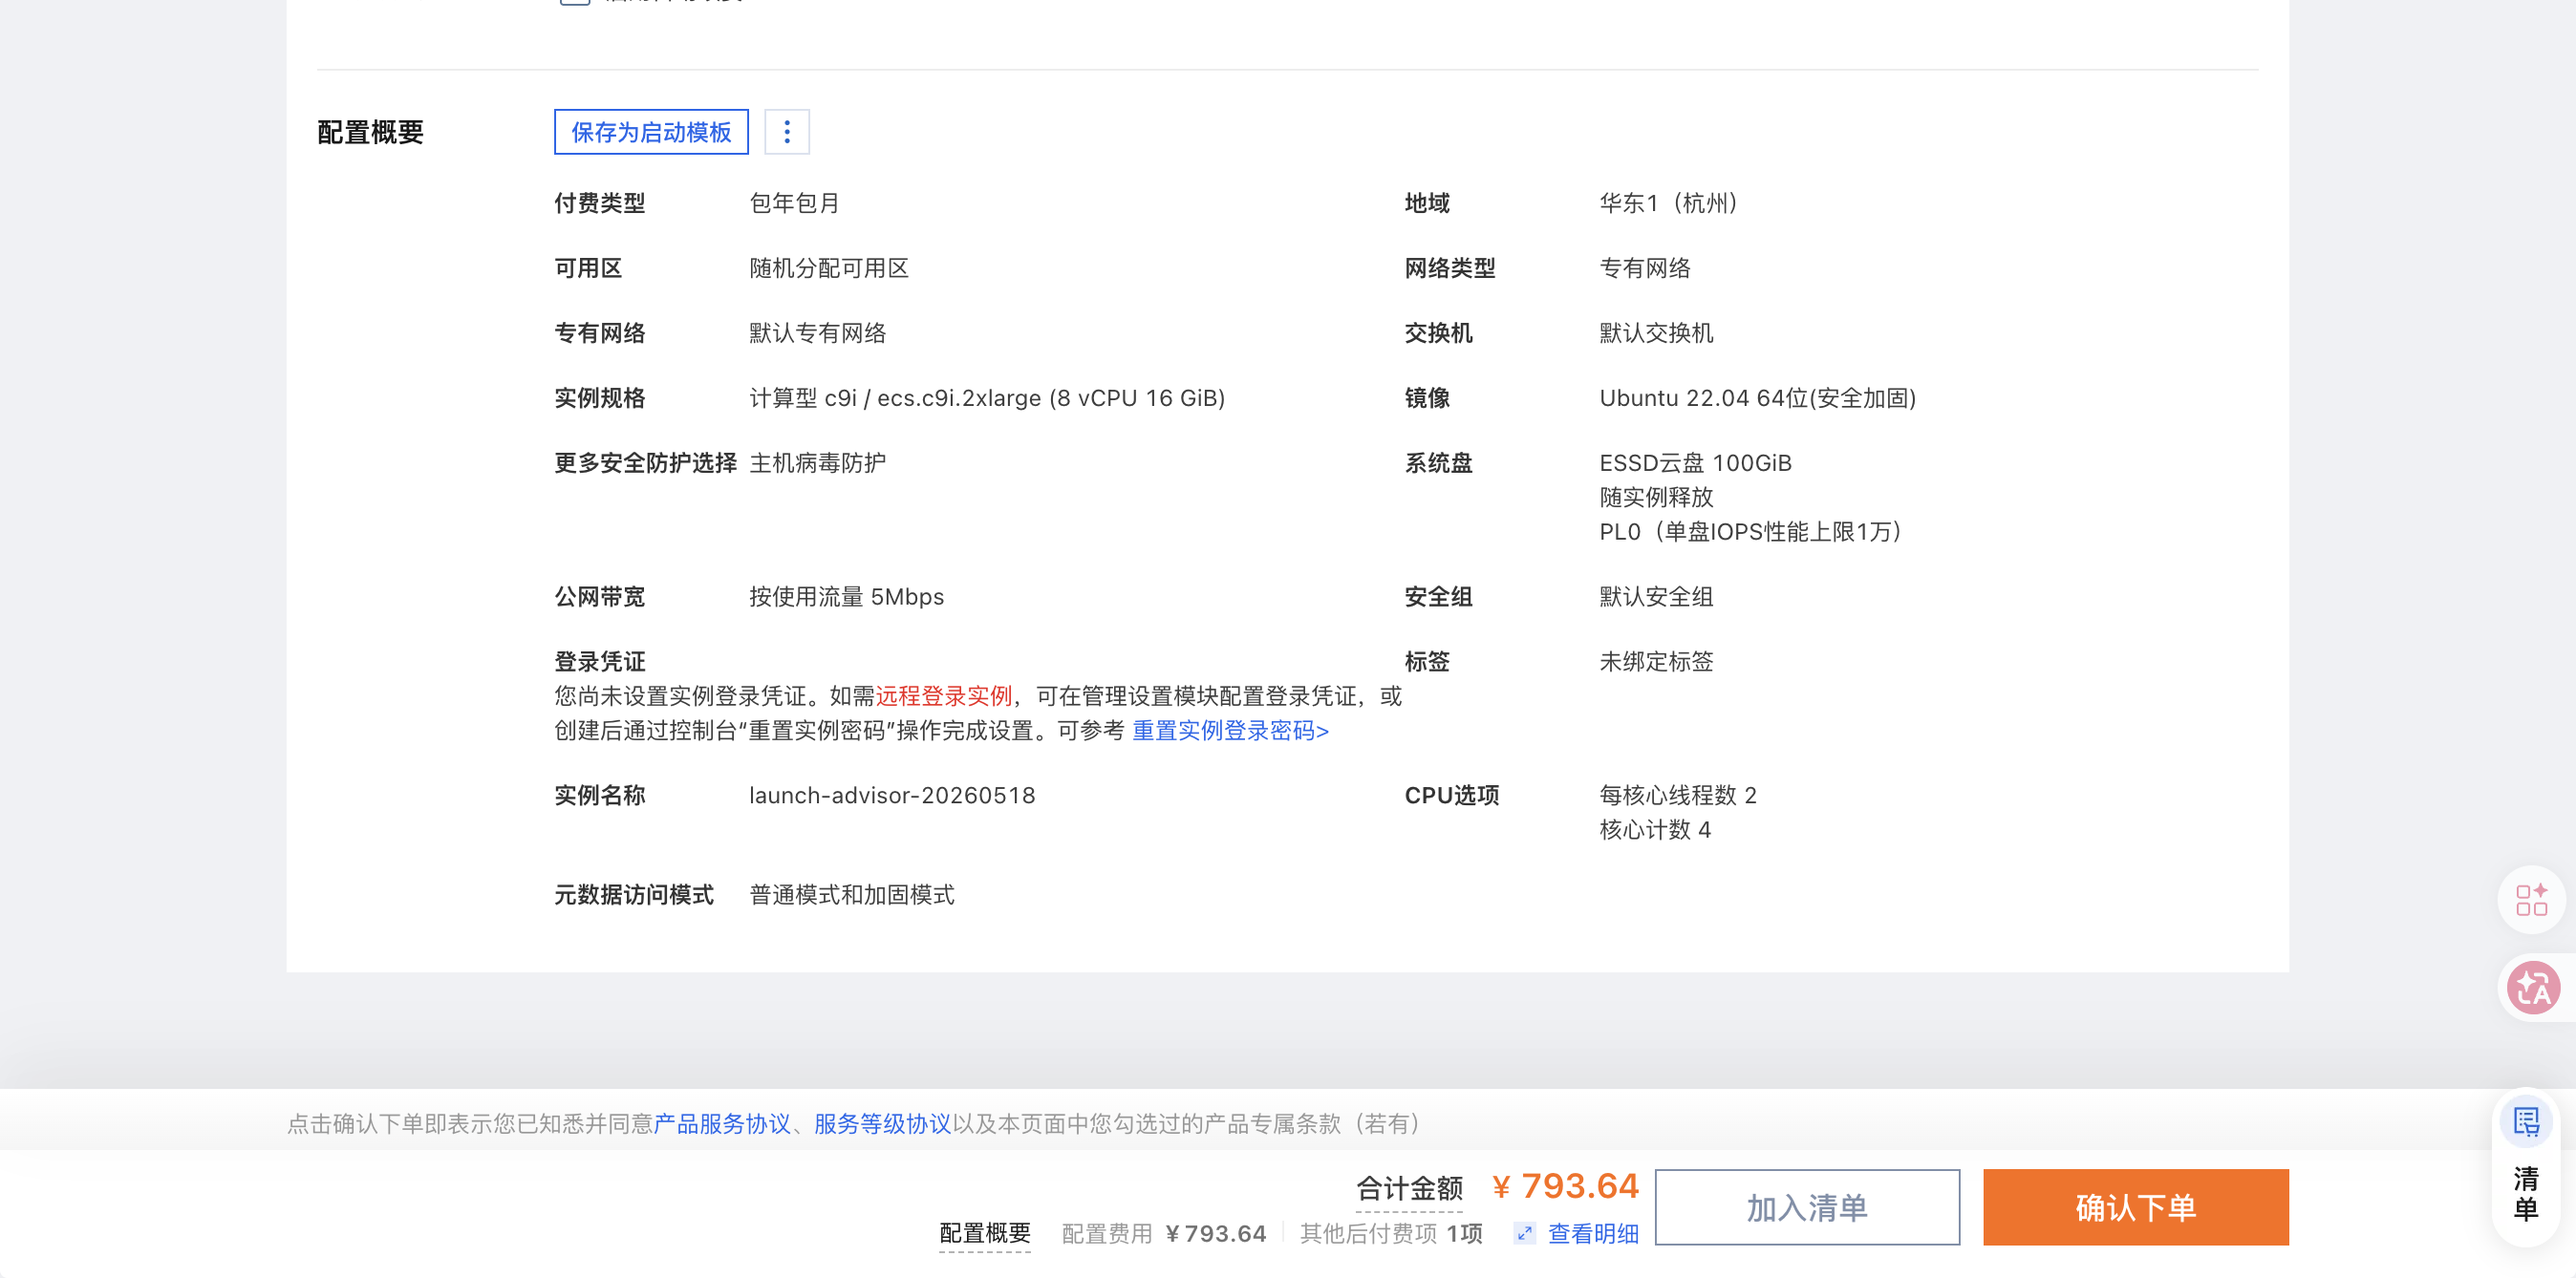
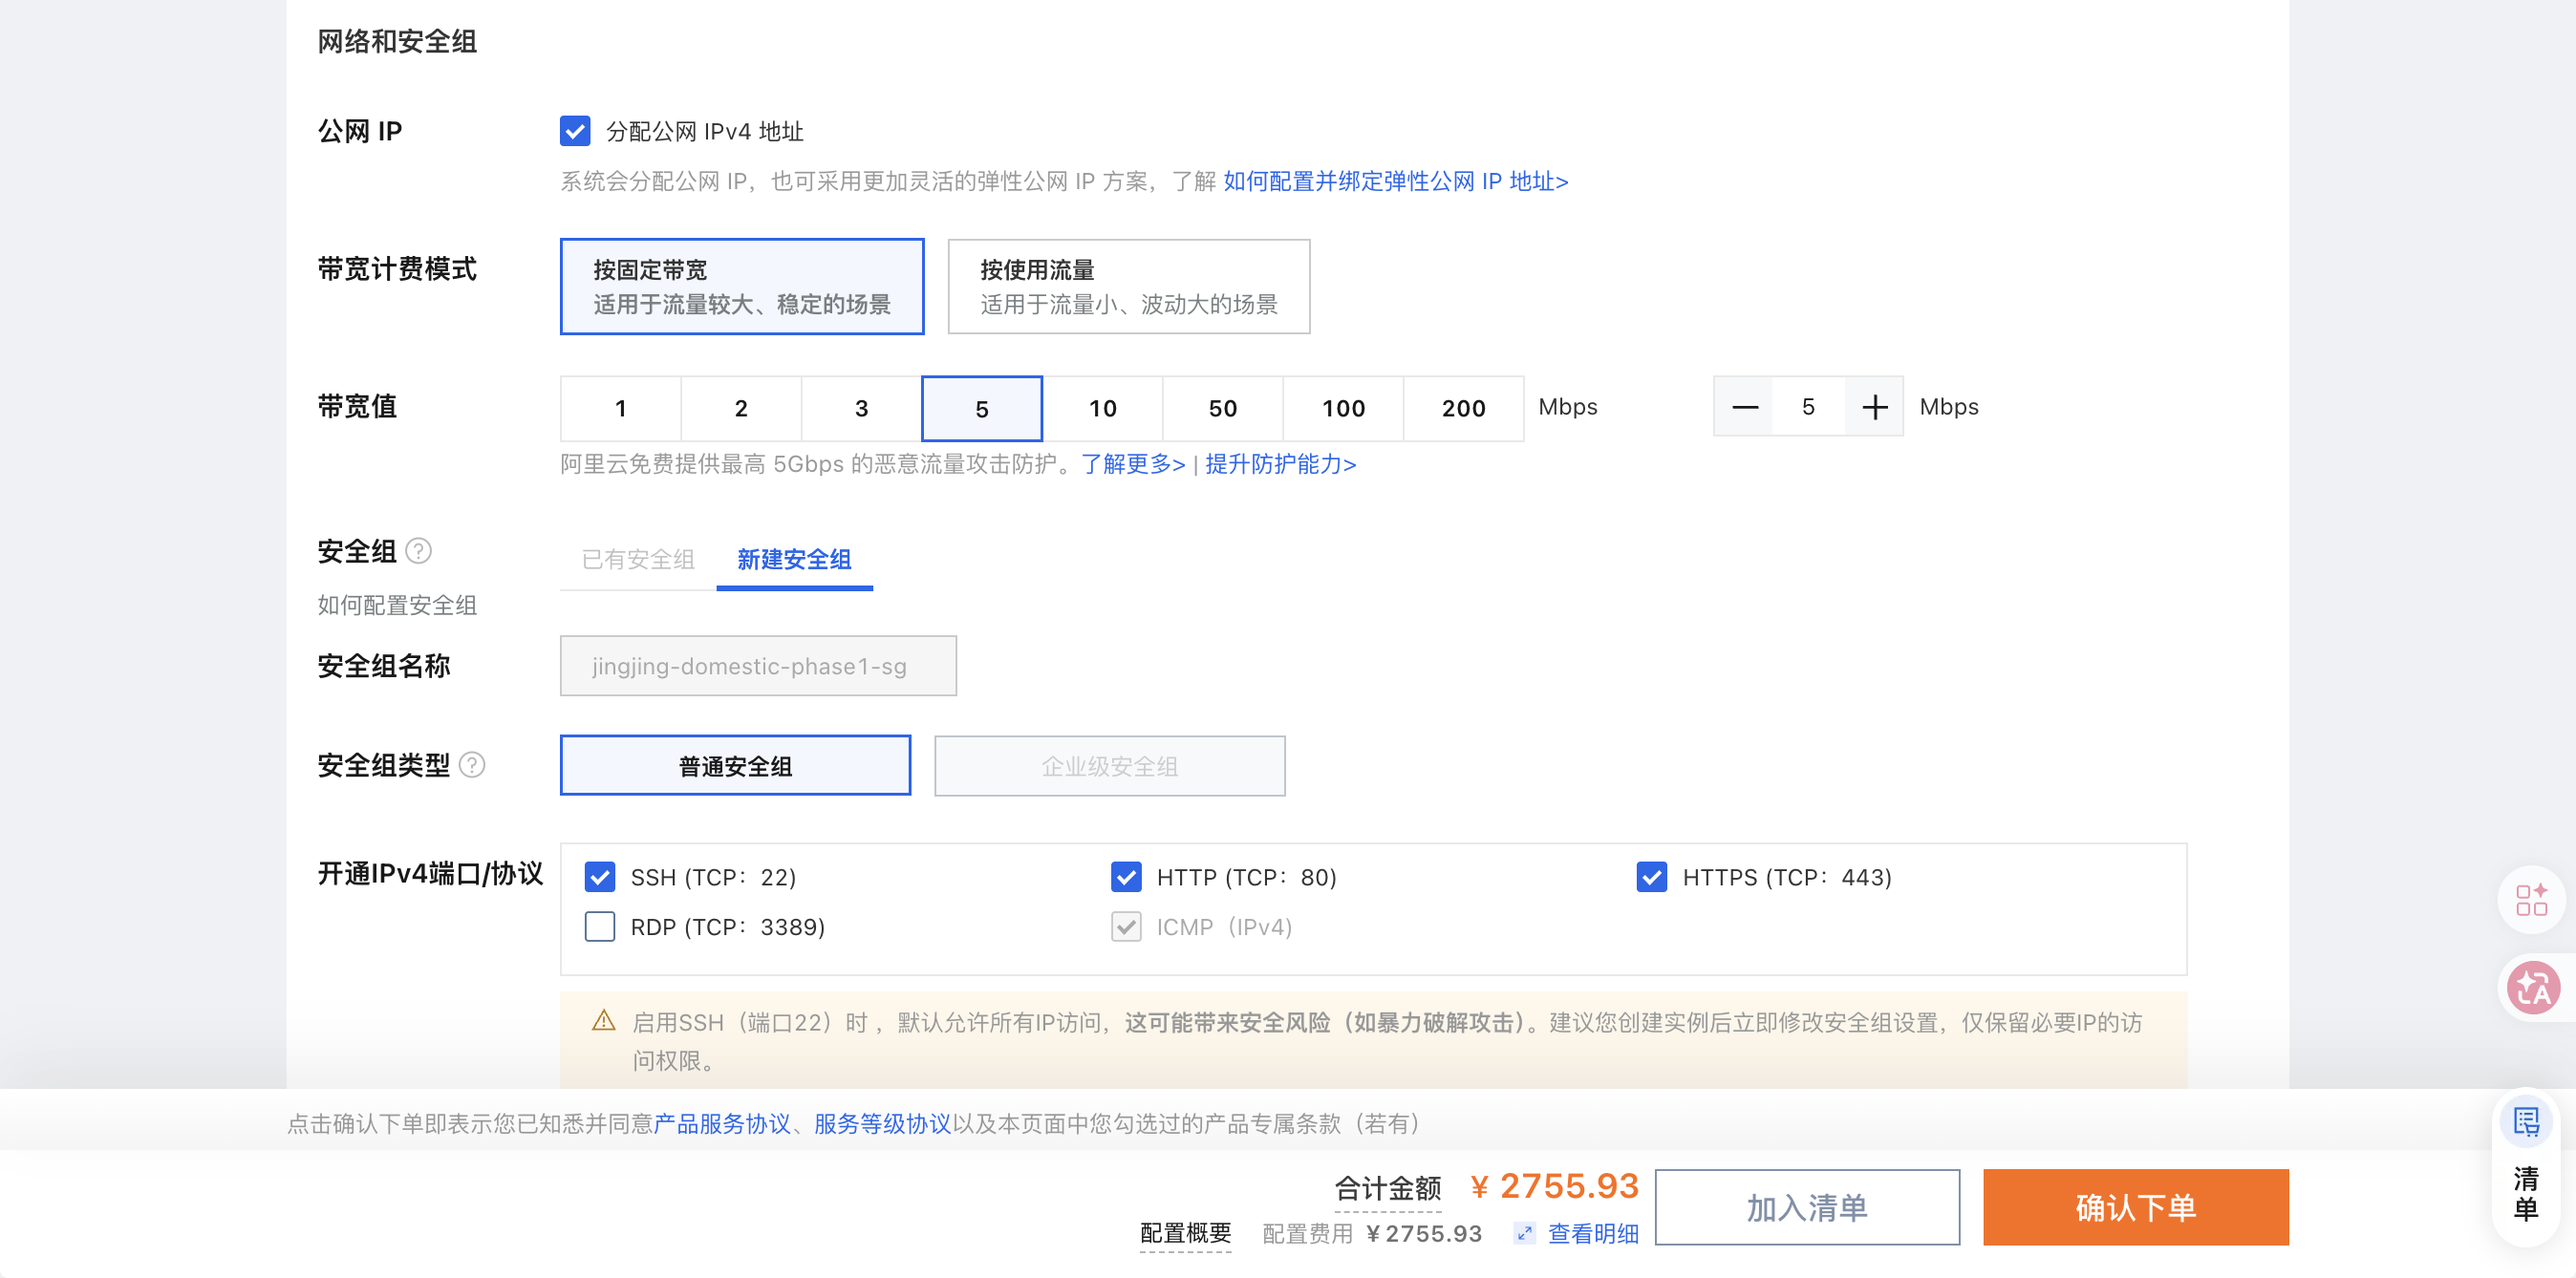
Update ECS bandwidth selection

diff --git a/docs/handoff/2026-05-18-aliyun-phase1-procurement-selection-handoff.md b/docs/handoff/2026-05-18-aliyun-phase1-procurement-selection-handoff.md
@@ -202,25 +202,52 @@ https://ecs-buy.aliyun.com/ecs#/custom/prepay/cn-hangzhou
 实例规格：计算型 c9i / ecs.c9i.2xlarge，8 vCPU / 16 GiB
 镜像：Ubuntu 22.04 64位（安全加固）
 系统盘：ESSD 云盘 100GiB，PL0，随实例释放
-公网带宽：按使用流量 5Mbps
+公网带宽：按固定带宽 5Mbps
 登录凭证：创建后设置
 购买实例数量：1
-购买时长：1 个月
-配置费用：¥793.64
-其他后付费项：1 项，主要是公网流量
+购买时长：3 个月
+配置费用：¥2755.93
 ```
 
 人工下单前重点检查：
 
 ```text
 页面摘要仍显示“更多安全防护选择 / 主机病毒防护”。
-当前配置费用仍为 ¥793.64，但下单前建议人工确认是否保留该安全防护项。
+当前配置费用为 ¥2755.93，但下单前建议人工确认是否保留该安全防护项。
 
 安全组摘要显示“默认安全组”。
 页面端口已按本轮目标调整为 SSH 22 / HTTP 80 / HTTPS 443 / ICMP，RDP 3389 已关闭；
 如果必须新建安全组，请下单前再手动确认安全组页签是否为“新建安全组”。
 
-如果这台 ECS 要直接用于 ICP，购买时长应从 1 个月改为 3 个月及以上。
+当前购买时长已改为 3 个月，满足中国内地 ECS 用于 ICP 接入时常见的服务器时长要求。
+自动续费未主动勾选；下单前再确认“启用自动续费”不要勾选。
+登录凭证仍是“创建后设置”，下单后需要在控制台重置实例密码或绑定密钥。
+```
+
+带宽判断：
+
+```text
+5Mbps 固定带宽只适合承载网页/API/后台管理流量，不适合作为视频文件上传、下载或转发通道。
+
+如果所有用户素材上传、生成结果下载都走 OSS：
+- 前端通过 signed PUT / POST 直传 OSS
+- 用户通过 OSS signed URL 或后续 CDN 下载视频
+- worker 把生成结果直接上传 OSS
+- ECS 只负责签名、任务编排、数据库读写
+则 ECS 5Mbps 固定带宽可作为初期配置。
+
+如果视频文件经过 ECS 中转：
+- 5Mbps 理论上只有约 0.625MB/s
+- 100MB 视频单个下载理想耗时约 160 秒
+- 多用户并发下载会明显排队
+这种模式不可取，应改为 OSS 直传/直下，或单独上 CDN/更高带宽。
+
+服务端访问同地域 OSS 时，应优先使用杭州内网 endpoint：
+oss-cn-hangzhou-internal.aliyuncs.com
+避免 ECS 公网带宽被 OSS 读写消耗。
+
+如果 RunningHub/外部 AIGC 服务必须由 ECS 主动上传大文件，5Mbps 会拖慢批量任务。
+优先方案是让外部服务通过短期 signed URL 从 OSS 拉取素材；如果做不到，再考虑 10Mbps/20Mbps 以上固定带宽或按流量高峰值方案。
 ```
 
 ### 10.2 RDS PostgreSQL 页面
